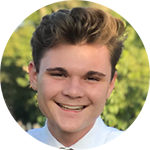
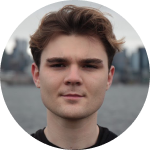
Updated pictures and some text.

diff --git a/docs/index.html b/docs/index.html
@@ -97,7 +97,7 @@
 		<section class="hero background parallax shadow-dark d-flex align-items-center" id="home" data-image-src="images/soren900x600.png">
 			<div class="cta mx-auto mt-2">
 				<h1 class="mt-0 mb-4">I'm Soren Rood<span class="dot"></span></h1>
-				<p class="mb-4">20 y/o who likes cs, art, design, and finance</p>
+				<p class="mb-4">20 y/o who likes startups, tech, and crypto</p>
 				<a href="#works" class="btn btn-default btn-lg mr-3"><i class="icon-grid"></i>View Portfolio</a>
 				<div class="spacer d-md-none d-lg-none d-sm-none" data-height="10"></div>
 				<a href="#contact" class="btn btn-border-light btn-lg"><i class="icon-envelope"></i>Hire me</a>
@@ -116,7 +116,7 @@
 				</div>
 				<div class="col-md-9">
 					<h2 class="mt-4 mt-md-0 mb-4">Hello,</h2>
-					<p class="mb-0">I'm Soren- a computer science student based in Seattle, WA. I am currently working in quantatative finance. I also like art and design.</p>
+					<p class="mb-0">I'm Soren - a hybrid "software-engineering-product-management-designer" based in Seattle, WA. I am currently working @ Replit.</p>
 					<div class="row my-4">
 						<div class="col-md-6">
 							<p class="mb-2">Name: <span class="text-dark">Soren Rood</span></p>
